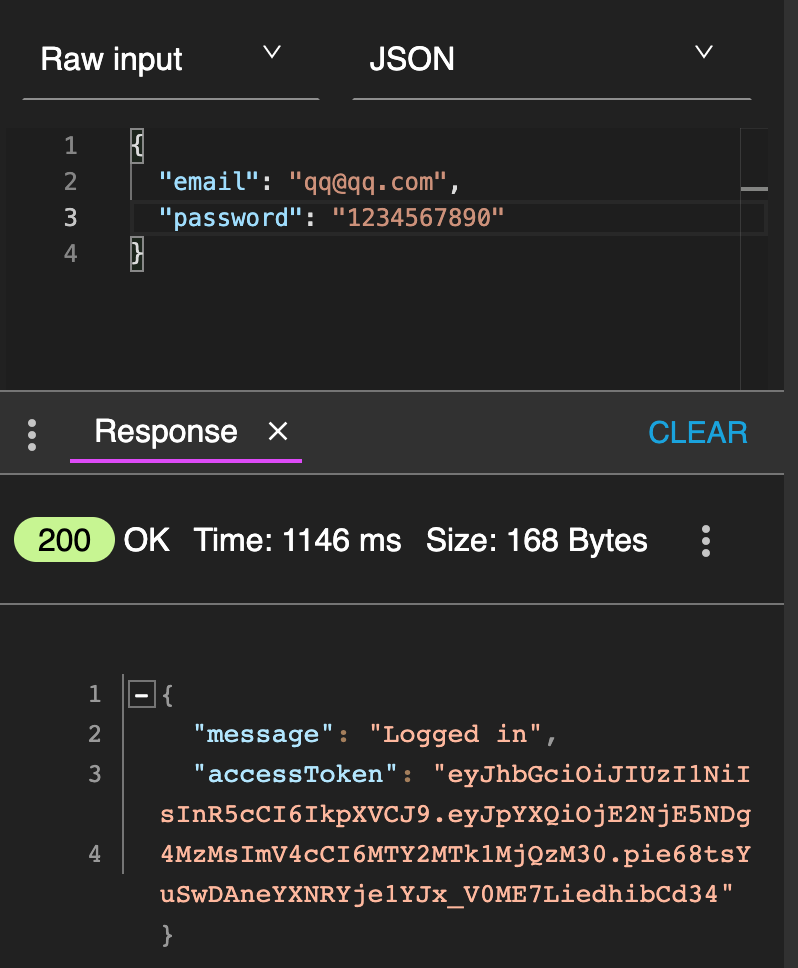
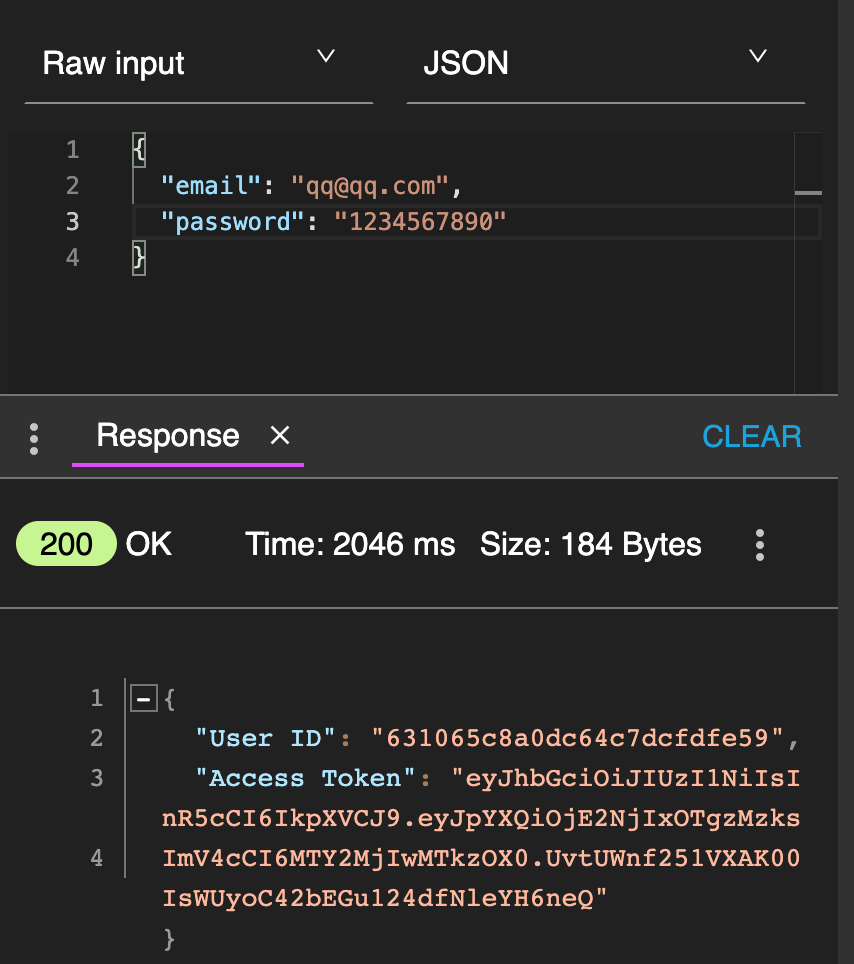
added response with earphone id and user id

diff --git a/index.js b/index.js
@@ -77,6 +77,12 @@ async function main() {
             }
         }
 
+        if(req.query.otherType) {
+            criteria.type = {
+                '$ne': req.query.otherType
+            }
+        }
+
         if(req.query.hours) {
             criteria['hours.music'] = {
                 '$not': {
@@ -117,14 +123,9 @@ async function main() {
             }
         }
 
-        if(req.query.rating) {
-            criteria['review.rating'] = {
-                '$ne': parseInt(req.query.rating)
-            }
-        }
-
         const result = await db.collection('earphone').find(criteria, {
             'projection': {
+                '_id': 1,
                 'brandModel': 1,
                 'type': 1,
                 'bluetooth': 1,
@@ -133,8 +134,7 @@ async function main() {
                 'color': 1,
                 'hours': 1,
                 'dustWaterproof': 1,
-                'connectors': 1,
-                'review': 1
+                'connectors': 1
             }
         }).limit(limit * 1).skip((page - 1) * limit).toArray();
         res.status(200).json({
@@ -296,7 +296,7 @@ async function main() {
                 }
             })
 
-            // NO USER ID FOUND
+            // NO IDs FOUND
             if(!review) throw err;
 
             const result = await db.collection('earphone').updateOne({
@@ -406,8 +406,8 @@ async function main() {
                 'expiresIn': '1h'
             })
             res.json({
-                'message': 'Logged in',
-                'accessToken': token
+                'User ID': user._id,
+                'Access Token': token
             })
         } else {
             res.sendStatus(401)

diff --git a/validator.js b/validator.js
@@ -24,13 +24,13 @@ const productSchema = Joi.object({
 
 const paramsQuerySchema = Joi.object({
     type: Joi.string().regex(/^[a-z-]+$/),
+    otherType: Joi.string().regex(/^[a-z-]+$/),
     store: Joi.string().regex(/^[a-z]+$/),
     color: Joi.string().regex(/^[a-z]+$/),
     otherColor: Joi.string().regex(/^[a-z&,]+$/),
     hours: Joi.number(),
     min_price: Joi.number(),
     max_price: Joi.number(),
-    rating: Joi.number().integer(),
     id: Joi.string().alphanum().trim(),
     reviewid: Joi.string().alphanum().trim(),
     limit: Joi.number().integer().positive(),

diff --git a/README.md b/README.md
@@ -90,10 +90,10 @@ User collection template
 |||
 **Title** | Retrieve result with criteria
 **Method** | GET
-**Endpoint Path** | /earphone?`parameter`
+**Endpoint Path** | /earphone?`parameter or empty`
 **Body** | N/A
 **Parameters** |  type=`string`, hours=`integer`, store=`string`, color=`string`, min_price=`integer/float`, max_price=`integer/float`
-|| Inverse: otherColor=`string`, rating=`integer`
+|| Inverse: otherColor=`string`, otherType=`string`
 **Expected Response** | `{ "page": 1, "limit": 2, "result": [{...},{...}]}`
 |||
 **Title** | Create a new product
@@ -170,7 +170,7 @@ User collection template
 **Endpoint Path** | /login
 **Body** | `{ "email": "<email>", "password": "<password>" }`
 **Parameters** | N/A
-**Expected Response** | `{ "message": "Logged in", "accessToken": "<JWT token>" }`
+**Expected Response** | `{ "User ID" : <id>, "Access Token": "<JWT token>" }`
 |||
 **Title** | Update a user
 **Method** | PUT
@@ -256,7 +256,7 @@ User collection template
 |||
 **Method** | POST
 **Endpoint Path** | /login
-**Body & Expected Response** | <img src="images/loginfail.png" width=50%><img src="images/login.png" width=30%>
+**Body & Expected Response** | <img src="images/loginfail.png" width=54%><img src="images/login.png" width=30%>
 |||
 **Method** | PUT
 **Endpoint Path** | /user/630f4caaffb13891f245dd3c
